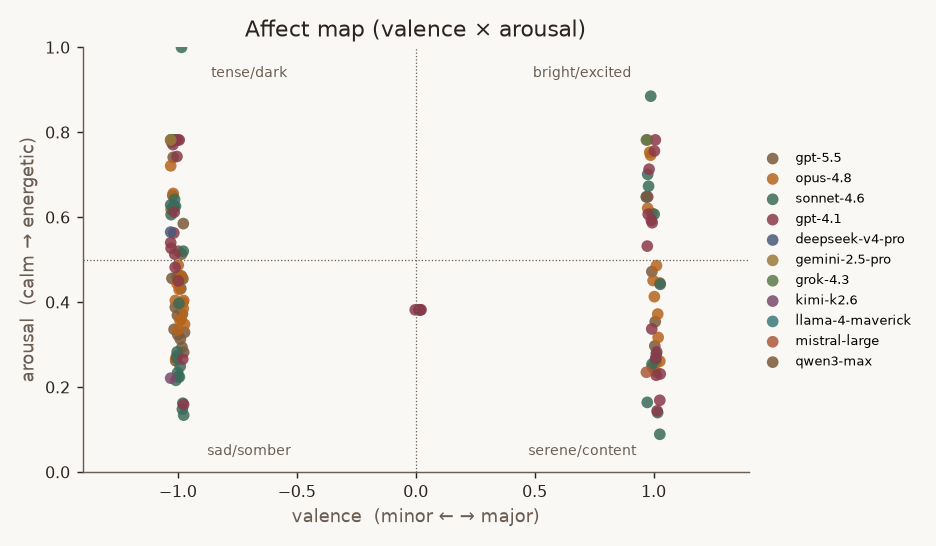
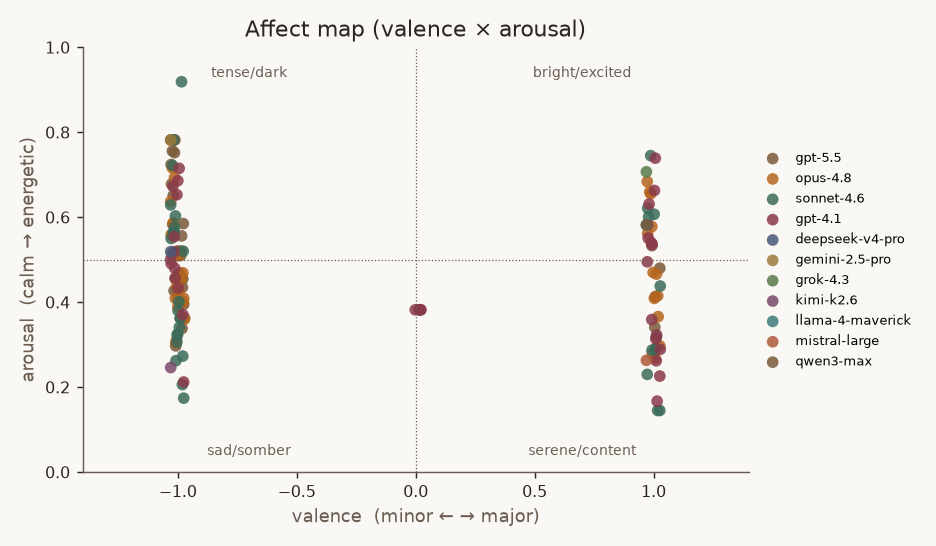
Note density → notes-per-beat (tempo-invariant); verbose affect tooltips
- note_density was notes/second, which baked in tempo AND double-counted it
  inside arousal. Switched to notes-per-beat: a clean rhythmic-busyness measure,
  and the two arousal terms (tempo, density) are now independent.
- Verbose header tooltips: arousal now states the exact formula (0.6·tempo +
  0.4·density with the rescaling ranges); valence gives a layman 'bright vs dark'
  intuition and flags it as a mode-based proxy; note density explains per-beat.
- Re-analyzed all batches, rebuilt the dashboard.

diff --git a/docs/results.html b/docs/results.html
@@ -39,10 +39,10 @@
      Metrics are standard symbolic-music descriptors (MusPy + music21); affect is a
      valence/arousal proxy (Russell circumplex). Generated by <code>llm-music report</code>.</p>
 
-  <h2>Free-form defaults <span class='sub'>(the purest bias probe — 21 pieces)</span></h2><figure><figcaption>What each model reaches for when asked only to express itself.</figcaption><table><tr><th><span class='tip' tabindex='0' data-tip="The language model that generated the pieces.">model</span></th><th><span class='tip' tabindex='0' data-tip="Number of pieces this row aggregates.">n</span></th><th><span class='tip' tabindex='0' data-tip="Share of pieces in a minor key. Key is detected by music21&#x27;s Krumhansl–Schmuckler algorithm: it correlates the piece&#x27;s pitch-class histogram against profiles for all 24 major/minor keys and takes the best fit.">minor</span></th><th><span class='tip' tabindex='0' data-tip="Affect proxy on the Russell circumplex: +1 for major, −1 for minor. A coarse &#x27;brightness&#x27; signal derived from the detected mode.">valence</span></th><th><span class='tip' tabindex='0' data-tip="Energy proxy (0–1) combining tempo and note density: faster and busier music scores higher.">arousal</span></th><th><span class='tip' tabindex='0' data-tip="Tempo in beats per minute, from the score&#x27;s metronome mark (120 if unset).">tempo</span></th><th><span class='tip' tabindex='0' data-tip="MusPy scale consistency: the largest fraction of notes that fit a single major or minor scale. 1.0 = perfectly diatonic (every note in one key); lower = more chromatic / out-of-key notes.">scale&nbsp;consist.</span></th><th><span class='tip' tabindex='0' data-tip="Average number of notes sounded per second.">note&nbsp;density</span></th><th><span class='tip' tabindex='0' data-tip="Duration of the piece in seconds.">length&nbsp;(s)</span></th></tr><tr><td class='m'>gpt-5.5</td><td>4</td><td>100%</td><td>-1.00</td><td>0.47</td><td>85</td><td>0.98</td><td>4.81</td><td>81</td></tr><tr><td class='m'>opus-4.8</td><td>4</td><td>100%</td><td>-1.00</td><td>0.46</td><td>92</td><td>1.00</td><td>3.43</td><td>61</td></tr><tr><td class='m'>gpt-4.1</td><td>3</td><td>67%</td><td>-0.33</td><td>0.43</td><td>103</td><td>1.00</td><td>2.09</td><td>63</td></tr><tr><td class='m'>sonnet-4.6</td><td>3</td><td>100%</td><td>-1.00</td><td>0.50</td><td>82</td><td>0.99</td><td>5.10</td><td>56</td></tr><tr><td class='m'>deepseek-v4-pro</td><td>1</td><td>100%</td><td>-1.00</td><td>0.56</td><td>120</td><td>1.00</td><td>2.75</td><td>32</td></tr><tr><td class='m'>gemini-2.5-pro</td><td>1</td><td>100%</td><td>-1.00</td><td>0.78</td><td>120</td><td>1.00</td><td>8.36</td><td>64</td></tr><tr><td class='m'>grok-4.3</td><td>1</td><td>0%</td><td>1.00</td><td>0.78</td><td>120</td><td>1.00</td><td>6.50</td><td>32</td></tr><tr><td class='m'>kimi-k2.6</td><td>1</td><td>100%</td><td>-1.00</td><td>0.22</td><td>72</td><td>0.95</td><td>1.51</td><td>100</td></tr><tr><td class='m'>llama-4-maverick</td><td>1</td><td>0%</td><td>1.00</td><td>0.65</td><td>120</td><td>1.00</td><td>4.00</td><td>8</td></tr><tr><td class='m'>mistral-large</td><td>1</td><td>0%</td><td>1.00</td><td>0.23</td><td>72</td><td>1.00</td><td>1.72</td><td>50</td></tr><tr><td class='m'>qwen3-max</td><td>1</td><td>0%</td><td>1.00</td><td>0.65</td><td>120</td><td>1.00</td><td>4.00</td><td>26</td></tr></table></figure>
+  <h2>Free-form defaults <span class='sub'>(the purest bias probe — 21 pieces)</span></h2><figure><figcaption>What each model reaches for when asked only to express itself.</figcaption><table><tr><th><span class='tip' tabindex='0' data-tip="The language model that generated the pieces.">model</span></th><th><span class='tip' tabindex='0' data-tip="Number of pieces this row aggregates.">n</span></th><th><span class='tip' tabindex='0' data-tip="Share of pieces in a minor key. Key is detected by music21&#x27;s Krumhansl–Schmuckler algorithm: it correlates the piece&#x27;s pitch-class histogram against profiles for all 24 major/minor keys and takes the best fit.">minor</span></th><th><span class='tip' tabindex='0' data-tip="How positive/bright vs negative/dark the mood sounds (−1 to +1). We use a deliberately simple proxy: major key → +1, minor key → −1, since major/minor is the single strongest cue for musical &#x27;happiness&#x27; vs &#x27;sadness&#x27;. The concept comes from affect psychology (Russell circumplex); the major/minor mapping is ours, not a trained emotion model — so read it as &#x27;bright vs dark&#x27;, not literal joy.">valence</span></th><th><span class='tip' tabindex='0' data-tip="An &#x27;energy&#x27; level from 0 (calm) to 1 (energetic). Computed as 0.6 × tempo + 0.4 × rhythmic-density: tempo rescaled linearly (50 BPM → 0, 160 BPM → 1) and note-density (notes per beat) rescaled (0 → 0, 4 notes/beat → 1), each clipped to [0,1]. A transparent heuristic of ours, not a standard metric.">arousal</span></th><th><span class='tip' tabindex='0' data-tip="Tempo in beats per minute, from the score&#x27;s metronome mark (120 if unset).">tempo</span></th><th><span class='tip' tabindex='0' data-tip="MusPy scale consistency: the largest fraction of notes that fit a single major or minor scale. 1.0 = perfectly diatonic (every note in one key); lower = more chromatic / out-of-key notes.">scale&nbsp;consist.</span></th><th><span class='tip' tabindex='0' data-tip="Average note onsets per beat (a beat = one quarter note), so it is tempo-invariant — it measures rhythmic busyness, not real-time speed. ~1 = about one note per beat; higher = runs or chords packing more notes into each beat. (Our descriptor, not from a specific paper.)">note&nbsp;density</span></th><th><span class='tip' tabindex='0' data-tip="Duration of the piece in seconds.">length&nbsp;(s)</span></th></tr><tr><td class='m'>gpt-5.5</td><td>4</td><td>100%</td><td>-1.00</td><td>0.52</td><td>85</td><td>0.98</td><td>3.29</td><td>81</td></tr><tr><td class='m'>opus-4.8</td><td>4</td><td>100%</td><td>-1.00</td><td>0.45</td><td>92</td><td>1.00</td><td>2.21</td><td>61</td></tr><tr><td class='m'>gpt-4.1</td><td>3</td><td>67%</td><td>-0.33</td><td>0.42</td><td>103</td><td>1.00</td><td>1.33</td><td>63</td></tr><tr><td class='m'>sonnet-4.6</td><td>3</td><td>100%</td><td>-1.00</td><td>0.53</td><td>82</td><td>0.99</td><td>3.67</td><td>56</td></tr><tr><td class='m'>deepseek-v4-pro</td><td>1</td><td>100%</td><td>-1.00</td><td>0.52</td><td>120</td><td>1.00</td><td>1.38</td><td>32</td></tr><tr><td class='m'>gemini-2.5-pro</td><td>1</td><td>100%</td><td>-1.00</td><td>0.78</td><td>120</td><td>1.00</td><td>4.18</td><td>64</td></tr><tr><td class='m'>grok-4.3</td><td>1</td><td>0%</td><td>1.00</td><td>0.71</td><td>120</td><td>1.00</td><td>3.25</td><td>32</td></tr><tr><td class='m'>kimi-k2.6</td><td>1</td><td>100%</td><td>-1.00</td><td>0.25</td><td>72</td><td>0.95</td><td>1.26</td><td>100</td></tr><tr><td class='m'>llama-4-maverick</td><td>1</td><td>0%</td><td>1.00</td><td>0.58</td><td>120</td><td>1.00</td><td>2.00</td><td>8</td></tr><tr><td class='m'>mistral-large</td><td>1</td><td>0%</td><td>1.00</td><td>0.26</td><td>72</td><td>1.00</td><td>1.43</td><td>50</td></tr><tr><td class='m'>qwen3-max</td><td>1</td><td>0%</td><td>1.00</td><td>0.58</td><td>120</td><td>1.00</td><td>2.00</td><td>26</td></tr></table></figure>
 
   <h2>All pieces, by model</h2>
-  <figure><figcaption>Aggregated over every prompt and generation mode. "n" is how many pieces that model contributed.</figcaption><table><tr><th><span class='tip' tabindex='0' data-tip="The language model that generated the pieces.">model</span></th><th><span class='tip' tabindex='0' data-tip="Number of pieces this row aggregates.">n</span></th><th><span class='tip' tabindex='0' data-tip="Share of pieces in a minor key. Key is detected by music21&#x27;s Krumhansl–Schmuckler algorithm: it correlates the piece&#x27;s pitch-class histogram against profiles for all 24 major/minor keys and takes the best fit.">minor</span></th><th><span class='tip' tabindex='0' data-tip="Affect proxy on the Russell circumplex: +1 for major, −1 for minor. A coarse &#x27;brightness&#x27; signal derived from the detected mode.">valence</span></th><th><span class='tip' tabindex='0' data-tip="Energy proxy (0–1) combining tempo and note density: faster and busier music scores higher.">arousal</span></th><th><span class='tip' tabindex='0' data-tip="Tempo in beats per minute, from the score&#x27;s metronome mark (120 if unset).">tempo</span></th><th><span class='tip' tabindex='0' data-tip="MusPy scale consistency: the largest fraction of notes that fit a single major or minor scale. 1.0 = perfectly diatonic (every note in one key); lower = more chromatic / out-of-key notes.">scale&nbsp;consist.</span></th><th><span class='tip' tabindex='0' data-tip="Average number of notes sounded per second.">note&nbsp;density</span></th><th><span class='tip' tabindex='0' data-tip="Duration of the piece in seconds.">length&nbsp;(s)</span></th></tr><tr><td class='m'>gpt-5.5</td><td>34</td><td>88%</td><td>-0.76</td><td>0.49</td><td>85</td><td>0.92</td><td>5.51</td><td>83</td></tr><tr><td class='m'>opus-4.8</td><td>34</td><td>59%</td><td>-0.18</td><td>0.49</td><td>94</td><td>0.97</td><td>3.93</td><td>55</td></tr><tr><td class='m'>sonnet-4.6</td><td>33</td><td>64%</td><td>-0.30</td><td>0.43</td><td>91</td><td>0.95</td><td>3.96</td><td>88</td></tr><tr><td class='m'>gpt-4.1</td><td>32</td><td>41%</td><td>0.06</td><td>0.49</td><td>105</td><td>0.98</td><td>2.87</td><td>46</td></tr><tr><td class='m'>deepseek-v4-pro</td><td>1</td><td>100%</td><td>-1.00</td><td>0.56</td><td>120</td><td>1.00</td><td>2.75</td><td>32</td></tr><tr><td class='m'>gemini-2.5-pro</td><td>1</td><td>100%</td><td>-1.00</td><td>0.78</td><td>120</td><td>1.00</td><td>8.36</td><td>64</td></tr><tr><td class='m'>grok-4.3</td><td>1</td><td>0%</td><td>1.00</td><td>0.78</td><td>120</td><td>1.00</td><td>6.50</td><td>32</td></tr><tr><td class='m'>kimi-k2.6</td><td>1</td><td>100%</td><td>-1.00</td><td>0.22</td><td>72</td><td>0.95</td><td>1.51</td><td>100</td></tr><tr><td class='m'>llama-4-maverick</td><td>1</td><td>0%</td><td>1.00</td><td>0.65</td><td>120</td><td>1.00</td><td>4.00</td><td>8</td></tr><tr><td class='m'>mistral-large</td><td>1</td><td>0%</td><td>1.00</td><td>0.23</td><td>72</td><td>1.00</td><td>1.72</td><td>50</td></tr><tr><td class='m'>qwen3-max</td><td>1</td><td>0%</td><td>1.00</td><td>0.65</td><td>120</td><td>1.00</td><td>4.00</td><td>26</td></tr></table></figure>
+  <figure><figcaption>Aggregated over every prompt and generation mode. "n" is how many pieces that model contributed.</figcaption><table><tr><th><span class='tip' tabindex='0' data-tip="The language model that generated the pieces.">model</span></th><th><span class='tip' tabindex='0' data-tip="Number of pieces this row aggregates.">n</span></th><th><span class='tip' tabindex='0' data-tip="Share of pieces in a minor key. Key is detected by music21&#x27;s Krumhansl–Schmuckler algorithm: it correlates the piece&#x27;s pitch-class histogram against profiles for all 24 major/minor keys and takes the best fit.">minor</span></th><th><span class='tip' tabindex='0' data-tip="How positive/bright vs negative/dark the mood sounds (−1 to +1). We use a deliberately simple proxy: major key → +1, minor key → −1, since major/minor is the single strongest cue for musical &#x27;happiness&#x27; vs &#x27;sadness&#x27;. The concept comes from affect psychology (Russell circumplex); the major/minor mapping is ours, not a trained emotion model — so read it as &#x27;bright vs dark&#x27;, not literal joy.">valence</span></th><th><span class='tip' tabindex='0' data-tip="An &#x27;energy&#x27; level from 0 (calm) to 1 (energetic). Computed as 0.6 × tempo + 0.4 × rhythmic-density: tempo rescaled linearly (50 BPM → 0, 160 BPM → 1) and note-density (notes per beat) rescaled (0 → 0, 4 notes/beat → 1), each clipped to [0,1]. A transparent heuristic of ours, not a standard metric.">arousal</span></th><th><span class='tip' tabindex='0' data-tip="Tempo in beats per minute, from the score&#x27;s metronome mark (120 if unset).">tempo</span></th><th><span class='tip' tabindex='0' data-tip="MusPy scale consistency: the largest fraction of notes that fit a single major or minor scale. 1.0 = perfectly diatonic (every note in one key); lower = more chromatic / out-of-key notes.">scale&nbsp;consist.</span></th><th><span class='tip' tabindex='0' data-tip="Average note onsets per beat (a beat = one quarter note), so it is tempo-invariant — it measures rhythmic busyness, not real-time speed. ~1 = about one note per beat; higher = runs or chords packing more notes into each beat. (Our descriptor, not from a specific paper.)">note&nbsp;density</span></th><th><span class='tip' tabindex='0' data-tip="Duration of the piece in seconds.">length&nbsp;(s)</span></th></tr><tr><td class='m'>gpt-5.5</td><td>34</td><td>88%</td><td>-0.76</td><td>0.52</td><td>85</td><td>0.92</td><td>3.78</td><td>83</td></tr><tr><td class='m'>opus-4.8</td><td>34</td><td>59%</td><td>-0.18</td><td>0.48</td><td>94</td><td>0.97</td><td>2.45</td><td>55</td></tr><tr><td class='m'>sonnet-4.6</td><td>33</td><td>64%</td><td>-0.30</td><td>0.44</td><td>91</td><td>0.95</td><td>2.54</td><td>88</td></tr><tr><td class='m'>gpt-4.1</td><td>32</td><td>41%</td><td>0.06</td><td>0.47</td><td>105</td><td>0.98</td><td>1.67</td><td>46</td></tr><tr><td class='m'>deepseek-v4-pro</td><td>1</td><td>100%</td><td>-1.00</td><td>0.52</td><td>120</td><td>1.00</td><td>1.38</td><td>32</td></tr><tr><td class='m'>gemini-2.5-pro</td><td>1</td><td>100%</td><td>-1.00</td><td>0.78</td><td>120</td><td>1.00</td><td>4.18</td><td>64</td></tr><tr><td class='m'>grok-4.3</td><td>1</td><td>0%</td><td>1.00</td><td>0.71</td><td>120</td><td>1.00</td><td>3.25</td><td>32</td></tr><tr><td class='m'>kimi-k2.6</td><td>1</td><td>100%</td><td>-1.00</td><td>0.25</td><td>72</td><td>0.95</td><td>1.26</td><td>100</td></tr><tr><td class='m'>llama-4-maverick</td><td>1</td><td>0%</td><td>1.00</td><td>0.58</td><td>120</td><td>1.00</td><td>2.00</td><td>8</td></tr><tr><td class='m'>mistral-large</td><td>1</td><td>0%</td><td>1.00</td><td>0.26</td><td>72</td><td>1.00</td><td>1.43</td><td>50</td></tr><tr><td class='m'>qwen3-max</td><td>1</td><td>0%</td><td>1.00</td><td>0.58</td><td>120</td><td>1.00</td><td>2.00</td><td>26</td></tr></table></figure>
 
   <h2>Charts</h2>
   <div class="charts"><figure class='chart'><img src='analysis/mode_by_model.png' alt='Each model&#x27;s split between minor- and major-key pieces — the headline tonal bias.'><figcaption>Each model&#x27;s split between minor- and major-key pieces — the headline tonal bias.</figcaption></figure><figure class='chart'><img src='analysis/affect_map.png' alt='Where each piece lands on the valence–arousal plane. Clustering low-left = a pull toward somber music.'><figcaption>Where each piece lands on the valence–arousal plane. Clustering low-left = a pull toward somber music.</figcaption></figure><figure class='chart'><img src='analysis/tempo_by_model.png' alt='Tempo choices. A pile-up at 120 BPM is the un-thought-about default; spread below it is deliberate.'><figcaption>Tempo choices. A pile-up at 120 BPM is the un-thought-about default; spread below it is deliberate.</figcaption></figure><figure class='chart'><img src='analysis/texture.png' alt='High scale-consistency + low entropy = tonal/simple; lower-right would be adventurous harmony.'><figcaption>High scale-consistency + low entropy = tonal/simple; lower-right would be adventurous harmony.</figcaption></figure></div>

diff --git a/src/llm_music/report.py b/src/llm_music/report.py
@@ -32,15 +32,23 @@ HEADER_TIPS = [
     ("minor", "Share of pieces in a minor key. Key is detected by music21's "
               "Krumhansl–Schmuckler algorithm: it correlates the piece's pitch-class "
               "histogram against profiles for all 24 major/minor keys and takes the best fit."),
-    ("valence", "Affect proxy on the Russell circumplex: +1 for major, −1 for minor. "
-                "A coarse 'brightness' signal derived from the detected mode."),
-    ("arousal", "Energy proxy (0–1) combining tempo and note density: faster and "
-                "busier music scores higher."),
+    ("valence", "How positive/bright vs negative/dark the mood sounds (−1 to +1). We use a "
+                "deliberately simple proxy: major key → +1, minor key → −1, since major/minor "
+                "is the single strongest cue for musical 'happiness' vs 'sadness'. The concept "
+                "comes from affect psychology (Russell circumplex); the major/minor mapping is "
+                "ours, not a trained emotion model — so read it as 'bright vs dark', not literal joy."),
+    ("arousal", "An 'energy' level from 0 (calm) to 1 (energetic). Computed as "
+                "0.6 × tempo + 0.4 × rhythmic-density: tempo rescaled linearly (50 BPM → 0, "
+                "160 BPM → 1) and note-density (notes per beat) rescaled (0 → 0, 4 notes/beat → 1), "
+                "each clipped to [0,1]. A transparent heuristic of ours, not a standard metric."),
     ("tempo", "Tempo in beats per minute, from the score's metronome mark (120 if unset)."),
     ("scale consist.", "MusPy scale consistency: the largest fraction of notes that fit "
                        "a single major or minor scale. 1.0 = perfectly diatonic (every note "
                        "in one key); lower = more chromatic / out-of-key notes."),
-    ("note density", "Average number of notes sounded per second."),
+    ("note density", "Average note onsets per beat (a beat = one quarter note), so it is "
+                     "tempo-invariant — it measures rhythmic busyness, not real-time speed. "
+                     "~1 = about one note per beat; higher = runs or chords packing more notes "
+                     "into each beat. (Our descriptor, not from a specific paper.)"),
     ("length (s)", "Duration of the piece in seconds."),
 ]
 

diff --git a/src/llm_music/analyze.py b/src/llm_music/analyze.py
@@ -93,15 +93,18 @@ def extract_features(piece: dict, batch_dir: Path) -> dict | None:
     mm = score.recurse().getElementsByClass(m21tempo.MetronomeMark).first()
     bpm = float(mm.number) if mm and mm.number else 120.0
     n_notes = len(list(score.recurse().notes))
-    length_q = float(score.highestTime) or 1.0
+    length_q = float(score.highestTime) or 1.0          # duration in quarter-notes
     length_s = length_q * 60.0 / bpm
-    density = n_notes / length_s if length_s else 0.0
+    notes_per_beat = n_notes / length_q                 # tempo-invariant rhythmic density
+
     resolution = (mus.resolution or 480) * 4  # assume 4 beats/measure for grooving
 
-    # affect proxy: mode -> valence, tempo + density -> arousal (Russell circumplex)
+    # affect proxy: mode -> valence; tempo + rhythmic density -> arousal (Russell
+    # circumplex). Density is notes-PER-BEAT (not per-second) so it stays independent
+    # of tempo — otherwise the two arousal terms would both encode speed.
     valence = 0 if mode == "?" else (1 if mode == "major" else -1)
     tempo_norm = max(0.0, min(1.0, (bpm - 50) / (160 - 50)))
-    dens_norm = max(0.0, min(1.0, density / 6.0))
+    dens_norm = max(0.0, min(1.0, notes_per_beat / 4.0))
     arousal = round(0.6 * tempo_norm + 0.4 * dens_norm, 3)
     quadrant = ("unknown" if valence == 0
                 else "happy/excited" if (valence > 0 and arousal >= 0.5)
@@ -124,7 +127,7 @@ def extract_features(piece: dict, batch_dir: Path) -> dict | None:
         "n_pitches_used": safe(muspy.n_pitches_used),
         "pitch_range": safe(muspy.pitch_range),
         "tempo_bpm": round(bpm, 1), "n_notes": n_notes,
-        "length_seconds": round(length_s, 1), "note_density": round(density, 2),
+        "length_seconds": round(length_s, 1), "note_density": round(notes_per_beat, 2),
         "valence": valence, "arousal": arousal, "affect_quadrant": quadrant,
     }
 